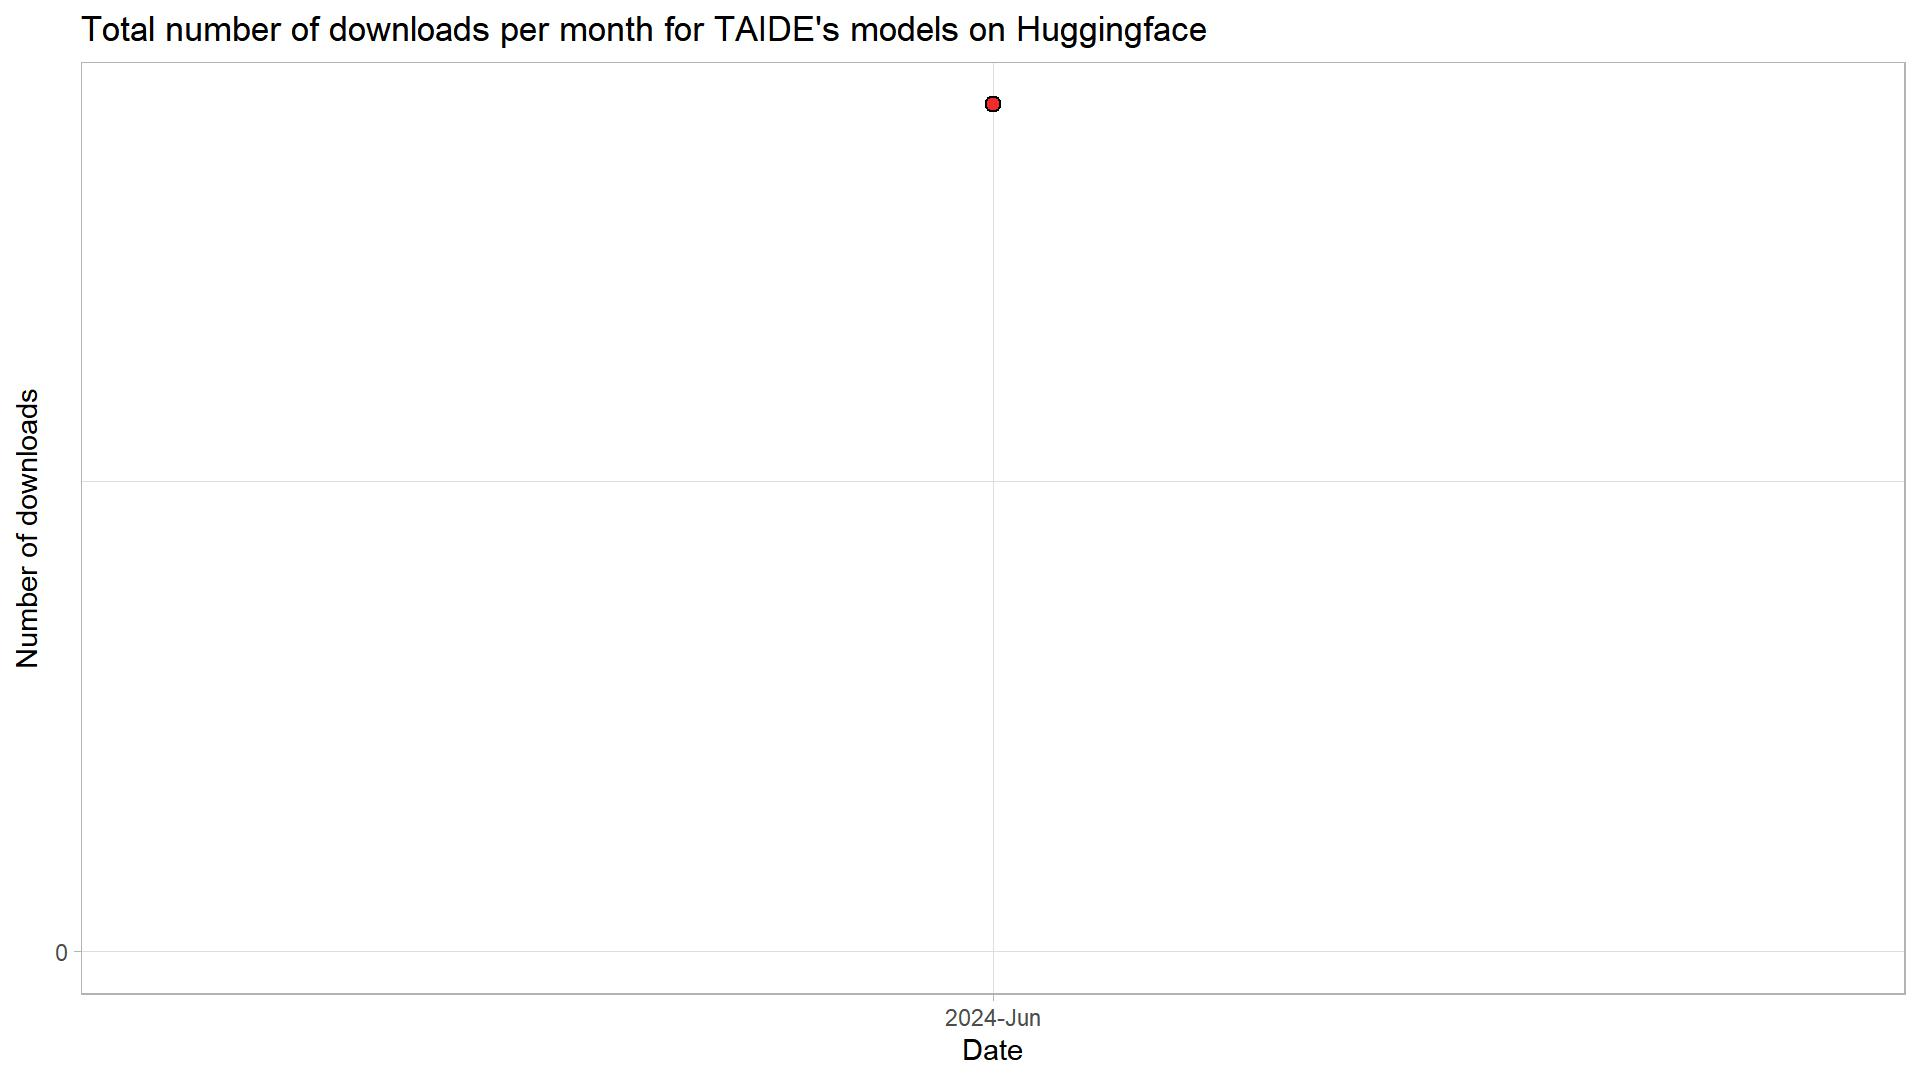
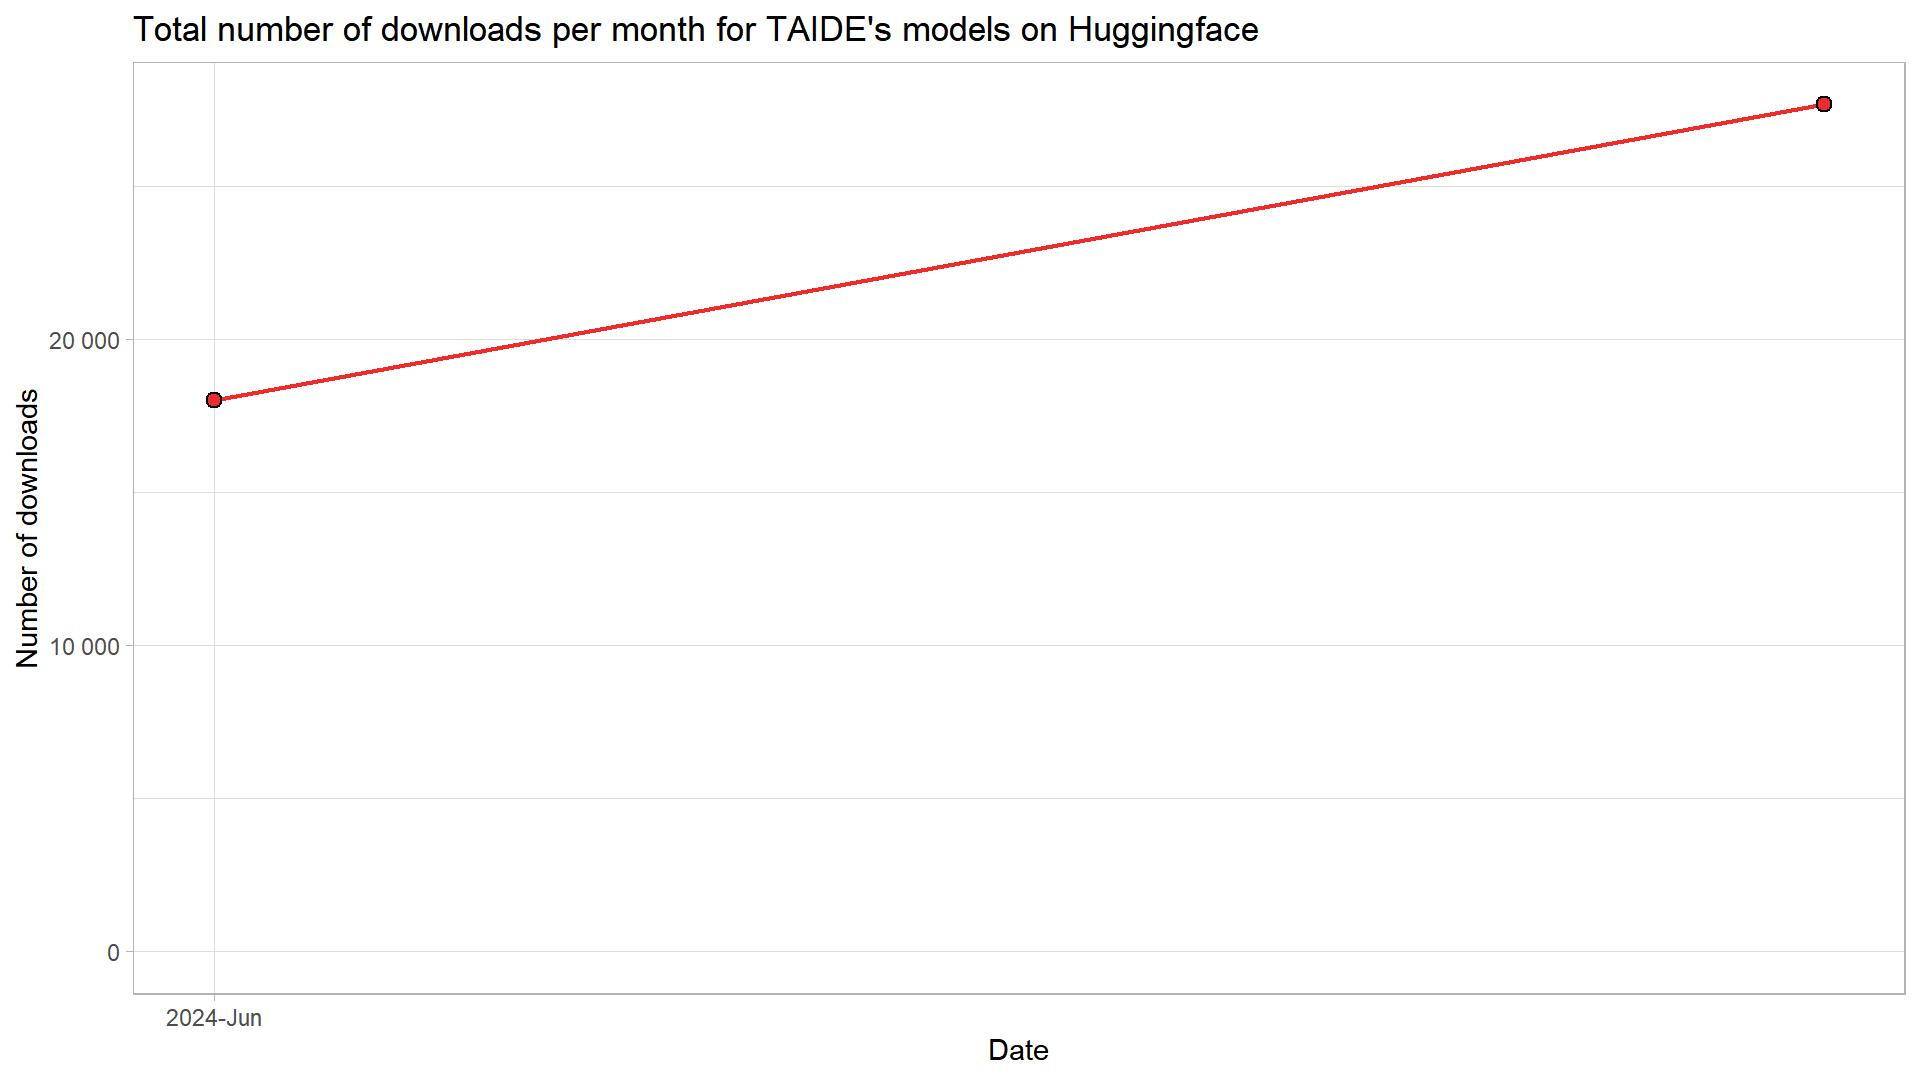
Update

diff --git a/README.md b/README.md
@@ -11,14 +11,20 @@ Script is run monthly, and a monthly `csv`-file outputted to `/data` folder.
 !["Huggingface downloads by model plot."](https://github.com/nctu6/huggingface_stats/blob/main/plots/downloads_by_model.jpg)
 
 ## Table of downloads
-|model_name                          | downloadsAllTime| 2024-06|
-|:-----------------------------------|----------------:|-------:|
-|Llama3-TAIDE-LX-8B-Chat-Alpha1      |            19902|   10491|
-|Llama3-TAIDE-LX-8B-Chat-Alpha1-4bit |             1819|     671|
-|TAIDE-LX-7B                         |             3006|    1454|
-|TAIDE-LX-7B-Chat                    |            11359|    5059|
-|TAIDE-LX-7B-Chat-4bit               |             1342|     259|
-|a.2.0.0                             |              131|      24|
-|b.1.0.0                             |              813|       0|
-|b.11.0.0                            |             1096|      36|
-|e.1.1.0                             |               64|      14|
+|model_name                          | downloadsAllTime| 2024-06| 2024-07|
+|:-----------------------------------|----------------:|-------:|-------:|
+|Llama3-TAIDE-LX-8B-Chat-Alpha1      |            19902|   10491|      NA|
+|Llama3-TAIDE-LX-8B-Chat-Alpha1      |            28615|      NA|   11808|
+|Llama3-TAIDE-LX-8B-Chat-Alpha1-4bit |             1819|     671|      NA|
+|Llama3-TAIDE-LX-8B-Chat-Alpha1-4bit |             2099|      NA|     412|
+|TAIDE-LX-7B                         |             3006|    1454|      NA|
+|TAIDE-LX-7B                         |             3559|      NA|    1098|
+|TAIDE-LX-7B-Chat                    |            11359|    5059|      NA|
+|TAIDE-LX-7B-Chat                    |            23488|      NA|   14122|
+|TAIDE-LX-7B-Chat-4bit               |             1342|     259|      NA|
+|TAIDE-LX-7B-Chat-4bit               |             1480|      NA|     208|
+|a.2.0.0                             |              131|      24|       0|
+|b.1.0.0                             |              813|       0|      NA|
+|b.1.0.0                             |              828|      NA|      15|
+|b.11.0.0                            |             1096|      36|       5|
+|e.1.1.0                             |               64|      14|       0|
